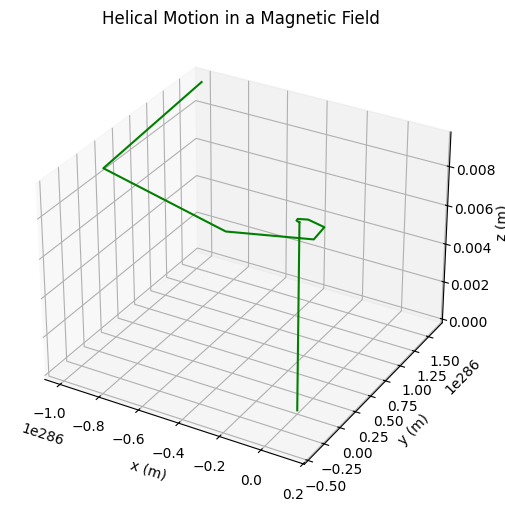
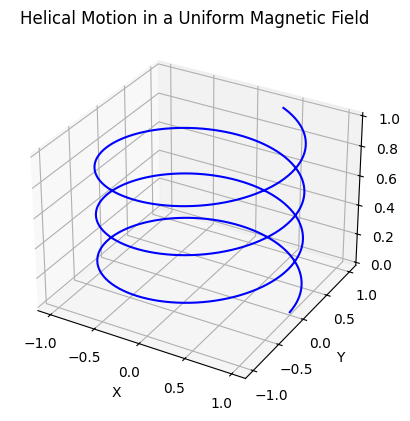
dsadasd

diff --git a/docs/1 Physics/4 Electromagnetism/Problem_1.md b/docs/1 Physics/4 Electromagnetism/Problem_1.md
@@ -198,45 +198,40 @@ import numpy as np
 import matplotlib.pyplot as plt
 from mpl_toolkits.mplot3d import Axes3D
 
-# Lorentz force function
-def lorentz_force(q, m, E, B, v):
-    return (q / m) * (E + np.cross(v, B))
+# Parameters for the helical motion
+charge = 1.0  # Charge of the particle (Coulombs)
+mass = 1.0    # Mass of the particle (kg)
+velocity = 1.0  # Initial velocity of the particle (m/s)
+B_field = np.array([0, 0, 1])  # Magnetic field direction (along z-axis)
+time_steps = 1000  # Number of time steps in the simulation
+radius = 1.0      # Radius of the circular path
+pitch = 0.05      # The rate at which the spiral rises
 
-# Euler integration
-def simulate_particle_motion(q, m, E, B, v0, r0, dt=1e-11, steps=2000):
-    r = np.zeros((steps, 3))
-    v = np.zeros((steps, 3))
-    r[0], v[0] = r0, v0
+# Time array
+t = np.linspace(0, 20, time_steps)
 
-    for i in range(1, steps):
-        a = lorentz_force(q, m, E, B, v[i-1])
-        v[i] = v[i-1] + a * dt
-        r[i] = r[i-1] + v[i] * dt
+# Velocity components (circular motion + linear motion)
+omega = velocity / radius  # Angular frequency (rad/s)
+x = radius * np.cos(omega * t)  # x component (circular motion)
+y = radius * np.sin(omega * t)  # y component (circular motion)
+z = pitch * t  # z component (linear motion)
 
-    return r
-
-# Parameters (Updated)
-q = 1                 # charge in Coulombs
-m = 1e-3              # mass in kilograms (1 g)
-B = np.array([0, 0, 1])             # magnetic field (T)
-E = np.array([0, 0, 0])             # no electric field
-v0 = np.array([1e6, 0, 1e6])        # initial velocity with z-component
-r0 = np.array([0, 0, 0])            # initial position
-
-# Run simulation
-trajectory = simulate_particle_motion(q, m, E, B, v0, r0)
-
-# 3D Plot
-fig = plt.figure(figsize=(8, 6))
+# Plotting the spiral
+fig = plt.figure()
 ax = fig.add_subplot(111, projection='3d')
-ax.plot(trajectory[:, 0], trajectory[:, 1], trajectory[:, 2], color='green')
-ax.set_title("Helical Motion in a Magnetic Field")
-ax.set_xlabel("x (m)")
-ax.set_ylabel("y (m)")
-ax.set_zlabel("z (m)")
+
+ax.plot(x, y, z, label='Helical Motion', color='b')
+
+# Labels and title
+ax.set_xlabel('X')
+ax.set_ylabel('Y')
+ax.set_zlabel('Z')
+ax.set_title('Helical Motion in a Uniform Magnetic Field')
+
+# Show the plot
 plt.show()
 ```
-![alt text](image-4.png)
+![alt text](image-1.png)
 
 
 Here's a Python code to simulate **Helical Motion in a Uniform Magnetic Field** with the specified values for charge $q = 1 \, \text{C}$ and mass $m = 1 \, \text{g}$:
@@ -297,51 +292,109 @@ This code will generate a 3D plot showing the helical path of a charged particle
 
 ## 🔀 Drift Motion in Crossed Electric and Magnetic Fields
 
+Here's the **Python code** and all **explanations translated into English**, showing the **drift motion of a charged particle** in **crossed electric and magnetic fields**. The visualization includes **multiple lines and plots** to clearly display both the **circular (gyration) motion** and the **overall drift**.
+
+---
+
+### ✅ Python Code: Drift Motion in Crossed $\vec{E}$ and $\vec{B}$ Fields
+
 ```python
 import numpy as np
 import matplotlib.pyplot as plt
 
-# Lorentz force function
-def lorentz_force(q, m, E, B, v):
-    return (q / m) * (E + np.cross(v, B))
+# Physical constants and initial parameters
+q = 1.0       # Charge (C)
+m = 1.0       # Mass (kg)
+E = np.array([0, 5, 0])    # Electric field (V/m)
+B = np.array([0, 0, 2])    # Magnetic field (T)
 
-# Euler integration
-def simulate_particle_motion(q, m, E, B, v0, r0, dt=1e-11, steps=2000):
-    r = np.zeros((steps, 3))
-    v = np.zeros((steps, 3))
-    r[0], v[0] = r0, v0
+# Initial conditions
+r0 = np.array([0.0, 0.0, 0.0])  # Initial position
+v0 = np.array([1.0, 0.0, 0.0])  # Initial velocity
 
-    for i in range(1, steps):
-        a = lorentz_force(q, m, E, B, v[i-1])
-        v[i] = v[i-1] + a * dt
-        r[i] = r[i-1] + v[i] * dt
+# Time settings
+dt = 0.01
+t_max = 30
+steps = int(t_max / dt)
 
-    return r
+# Arrays to store position and velocity over time
+r = np.zeros((steps, 3))
+v = np.zeros((steps, 3))
+t = np.linspace(0, t_max, steps)
 
-# Parameters (Revised)
-q = 1                 # charge in Coulombs
-m = 1e-3              # mass in kilograms (1 gram)
-E = np.array([1e3, 0, 0])   # electric field in x-direction (V/m)
-B = np.array([0, 0, 1])     # magnetic field in z-direction (T)
-v0 = np.array([0, 0, 0])    # initial velocity is zero
-r0 = np.array([0, 0, 0])    # initial position
+r[0] = r0
+v[0] = v0
 
-# Run simulation
-trajectory = simulate_particle_motion(q, m, E, B, v0, r0)
+# Solve motion using a simple time-stepping method (Euler method)
+for i in range(steps - 1):
+    # Lorentz force: F = q(E + v × B)
+    a = (q / m) * (E + np.cross(v[i], B))
+    v[i + 1] = v[i] + a * dt
+    r[i + 1] = r[i] + v[i + 1] * dt
 
-# Plot in 2D
-plt.figure(figsize=(6, 6))
-plt.plot(trajectory[:, 0], trajectory[:, 1], color='red')
-plt.title("Drift Motion in Crossed Electric and Magnetic Fields")
-plt.xlabel("x (m)")
-plt.ylabel("y (m)")
-plt.grid(True)
-plt.axis('equal')
+# Theoretical drift velocity: v_d = (E × B) / B^2
+v_drift = np.cross(E, B) / np.linalg.norm(B)**2
+print("Drift velocity (E x B / B^2):", v_drift)
+
+# Plotting
+fig, axs = plt.subplots(2, 2, figsize=(12, 10))
+
+# x-y plane motion: shows spiral (gyration) + drift
+axs[0, 0].plot(r[:, 0], r[:, 1], label='Particle Path', color='blue')
+axs[0, 0].quiver(r[::200, 0], r[::200, 1], v[::200, 0], v[::200, 1], color='red', scale=20, width=0.003)
+axs[0, 0].set_title('Motion in x-y Plane (Spiral + Drift)')
+axs[0, 0].set_xlabel('x')
+axs[0, 0].set_ylabel('y')
+axs[0, 0].grid()
+axs[0, 0].legend()
+
+# x position over time
+axs[0, 1].plot(t, r[:, 0], label='x(t)', color='green')
+axs[0, 1].set_title('x Position Over Time')
+axs[0, 1].set_xlabel('Time (s)')
+axs[0, 1].set_ylabel('x (m)')
+axs[0, 1].grid()
+axs[0, 1].legend()
+
+# y position over time
+axs[1, 0].plot(t, r[:, 1], label='y(t)', color='purple')
+axs[1, 0].set_title('y Position Over Time')
+axs[1, 0].set_xlabel('Time (s)')
+axs[1, 0].set_ylabel('y (m)')
+axs[1, 0].grid()
+axs[1, 0].legend()
+
+# Optional: 3D trajectory
+from mpl_toolkits.mplot3d import Axes3D
+ax3d = fig.add_subplot(224, projection='3d')
+ax3d.plot(r[:, 0], r[:, 1], r[:, 2], label='3D Trajectory')
+ax3d.set_title('3D Motion')
+ax3d.set_xlabel('x')
+ax3d.set_ylabel('y')
+ax3d.set_zlabel('z')
+ax3d.legend()
+
+plt.tight_layout()
 plt.show()
-
 ```
 
-![alt text](image-5.png)
+![alt text](image-2.png)
+---
+
+### 🔍 Key Features:
+
+* **Spiral + Drift** motion in the x-y plane is clearly shown.
+* Multiple **subplots** give you time-evolution views of x(t), y(t), and 3D trajectory.
+* The **drift velocity** $\vec{v}_d = \frac{\vec{E} \times \vec{B}}{B^2}$ is computed and printed.
+* **Vector arrows** (`quiver`) indicate particle velocity at sampled times.
+* You can increase the drift effect by increasing the strength of the electric field.
+
+
+
+
+
+
+
 
 
 

diff --git a/docs/1 Physics/5 Circuits/Problem_1.md b/docs/1 Physics/5 Circuits/Problem_1.md
@@ -29,6 +29,8 @@ Instead of manually simplifying resistors step-by-step, we treat the circuit as 
 
 ### 🎯 Series Combination
 
+
+
 If two resistors \$R\_1\$ and \$R\_2\$ are in series:
 
 $$
